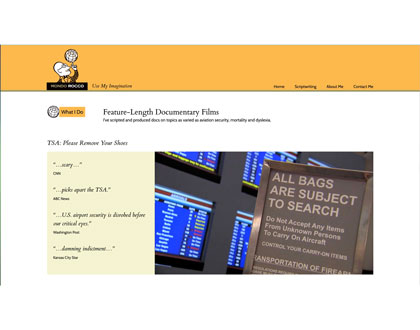
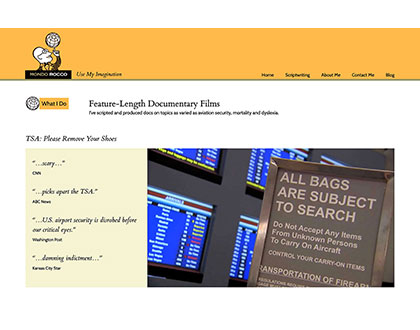
MQs for Portfolio - Recent
MQs for Portfolio - Recent
• Subscribe section: more tweaks
• Copyright section in footer - tweak for 320 breakpoint

diff --git a/app/public/css-custom/ask-custom.css b/app/public/css-custom/ask-custom.css
@@ -847,6 +847,8 @@ ul.mc {
   color: var(--bs-gray-400);
   font-size: 22px;
   font-weight: 200;
+  padding-left: 1em;
+  padding-right: 1em;
 }
 
 .copyright, .copyright a, .policies, .policies a {
@@ -1229,6 +1231,11 @@ ul.float-start-img {
   margin-left: 0;
 }
 
+/* -- gallery -- */
+.gallery .img-fluid {
+  width: 100%;
+}
+
 }
 
 /* -- Mobile L (G) -- */
@@ -1279,9 +1286,14 @@ ul.float-start-img {
     font-size: 12px;
 }
 
+.copyright-year-name {
+  max-width: 190px;
+  margin: 0 auto;
+}
 
-
-
+.copyright-year-name .footer-bottom-content-divider {
+  display: none;
+}
 
 }
 

diff --git a/app/public/includes/footer-bottom.inc.php b/app/public/includes/footer-bottom.inc.php
@@ -1,7 +1,7 @@
 <div class="container-xxl">
     <div class="row align-items-center">
 		<div class="copyright col-xl-4 col-lg-4 col-md-12">
-        <p class="mb-2">© 2026 Anne S. Katzeff &emsp;<span class="footer-bottom-content-divider"> | </span>&emsp;  ASK Design</p>
+        <p class="mb-2 copyright-year-name">© 2026 Anne S. Katzeff <span class="footer-bottom-content-divider"> | </span>  ASK Design</p>
         <p class="mb-0">All rights reserved.</p>
         </div><!-- end of col -->
 
@@ -16,7 +16,7 @@
         </div><!-- end of col -->
 
 		<div class="policies col-xl-4 col-lg-4 col-md-12">
-        <p class="mb-2"><a href="#">Privacy Policy</a> &emsp;<span class="footer-bottom-content-divider"> | </span>&emsp; <a href="#">Cookie Policy</a></p>
+        <p class="mb-2"><a href="#">Privacy Policy</a> <span class="footer-bottom-content-divider"> | </span> <a href="#">Cookie Policy</a></p>
         <p class="mb-0"><strong>Email: </strong>anne[at]askdesign[dot]biz</p>
         </div><!-- end of col -->
 

diff --git a/app/public/pages/about.php b/app/public/pages/about.php
@@ -182,7 +182,7 @@ My name is Anne S. Katzeff and I am the Creative Director of ASK Design. I grew 
 <section class="subscribe-section"><!-- subscribe -->
   <div class="container-fluid">
 	  <div class="row justify-content-center">
-		  <div class="col-xl-5 col-lg-8 col-sm-12">
+		  <div class="col-xl-6 col-lg-8 col-sm-12">
 
       <?php 
       include '../includes/subscribe.inc.php'; 

diff --git a/app/public/pages/contact.php b/app/public/pages/contact.php
@@ -247,7 +247,7 @@ I’ve been fortunate to live life loving what I do: designing websites and crea
 <section class="subscribe-section"><!-- subscribe -->
   <div class="container-fluid">
 	  <div class="row justify-content-center">
-		  <div class="col-xl-5 col-lg-8 col-sm-12">
+		  <div class="col-xl-6 col-lg-8 col-sm-12">
 
       <?php 
       include '../includes/subscribe.inc.php'; 

diff --git a/app/public/pages/services.php b/app/public/pages/services.php
@@ -195,7 +195,7 @@ I look at your business from a systems viewpoint and examine how everything work
 <section class="subscribe-section"><!-- subscribe -->
   <div class="container-fluid">
 	  <div class="row justify-content-center">
-		  <div class="col-xl-5 col-lg-8 col-sm-12">
+		  <div class="col-xl-6 col-lg-8 col-sm-12">
 
       <?php 
       include '../includes/subscribe.inc.php'; 

diff --git a/app/public/pages/portgd-rec-isotope1.php b/app/public/pages/portgd-rec-isotope1.php
@@ -383,7 +383,7 @@ These are samples of my recent web design and graphic design work.</p>
 <section class="subscribe-section"><!-- subscribe -->
   <div class="container-fluid">
 	  <div class="row justify-content-center">
-		  <div class="col-xl-5 col-lg-8 col-sm-12">
+		  <div class="col-xl-6 col-lg-8 col-sm-12">
 
       <?php 
       include '../includes/subscribe.inc.php'; 

diff --git a/app/public/pages/portgd-rec-isotope2.php b/app/public/pages/portgd-rec-isotope2.php
@@ -255,7 +255,7 @@ These are samples of my recent web design and graphic design work.</p>
 <section class="subscribe-section"><!-- subscribe -->
   <div class="container-fluid">
 	  <div class="row justify-content-center">
-		  <div class="col-xl-5 col-lg-8 col-sm-12">
+		  <div class="col-xl-6 col-lg-8 col-sm-12">
 
       <?php 
       include '../includes/subscribe.inc.php'; 

diff --git a/app/public/pages/shop-cat-all-052026.php b/app/public/pages/shop-cat-all-052026.php
@@ -3258,7 +3258,7 @@
 <section class="subscribe-section"><!-- subscribe -->
   <div class="container-fluid">
 	  <div class="row justify-content-center">
-		  <div class="col-xl-5 col-lg-8 col-sm-12">
+		  <div class="col-xl-6 col-lg-8 col-sm-12">
 
       <?php 
       include '../includes/subscribe.inc.php'; 

diff --git a/app/public/pages/shop-cat-all-2006-11.php b/app/public/pages/shop-cat-all-2006-11.php
@@ -1179,7 +1179,7 @@
 <section class="subscribe-section"><!-- subscribe -->
   <div class="container-fluid">
 	  <div class="row justify-content-center">
-		  <div class="col-xl-5 col-lg-8 col-sm-12">
+		  <div class="col-xl-6 col-lg-8 col-sm-12">
 
       <?php 
       include '../includes/subscribe.inc.php'; 

diff --git a/app/public/pages/shop-cat-all-2012-19.php b/app/public/pages/shop-cat-all-2012-19.php
@@ -1244,7 +1244,7 @@
 <section class="subscribe-section"><!-- subscribe -->
   <div class="container-fluid">
 	  <div class="row justify-content-center">
-		  <div class="col-xl-5 col-lg-8 col-sm-12">
+		  <div class="col-xl-6 col-lg-8 col-sm-12">
 
       <?php 
       include '../includes/subscribe.inc.php'; 

diff --git a/app/public/pages/shop-cat-all-2020-26.php b/app/public/pages/shop-cat-all-2020-26.php
@@ -1110,7 +1110,7 @@
 <section class="subscribe-section"><!-- subscribe -->
   <div class="container-fluid">
 	  <div class="row justify-content-center">
-		  <div class="col-xl-5 col-lg-8 col-sm-12">
+		  <div class="col-xl-6 col-lg-8 col-sm-12">
 
       <?php 
       include '../includes/subscribe.inc.php'; 

diff --git a/app/public/pages/shop-cat-all.php b/app/public/pages/shop-cat-all.php
@@ -3408,7 +3408,7 @@
 <section class="subscribe-section"><!-- subscribe -->
   <div class="container-fluid">
 	  <div class="row justify-content-center">
-		  <div class="col-xl-5 col-lg-8 col-sm-12">
+		  <div class="col-xl-6 col-lg-8 col-sm-12">
 
       <?php 
       include '../includes/subscribe.inc.php'; 
